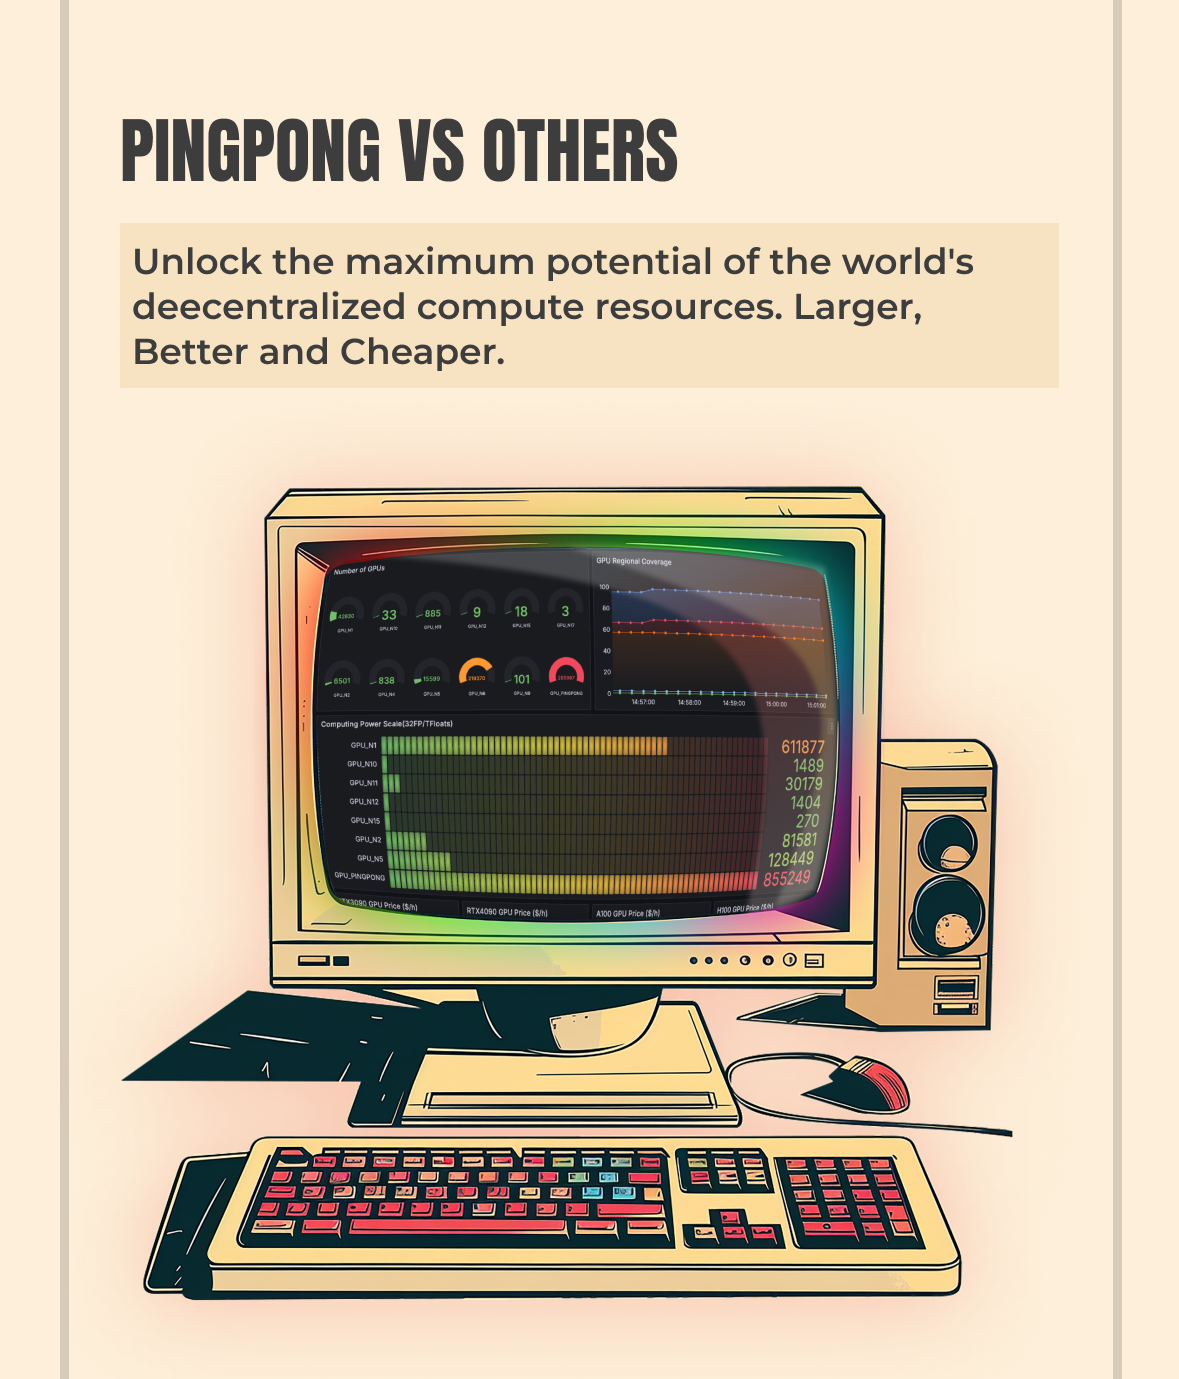
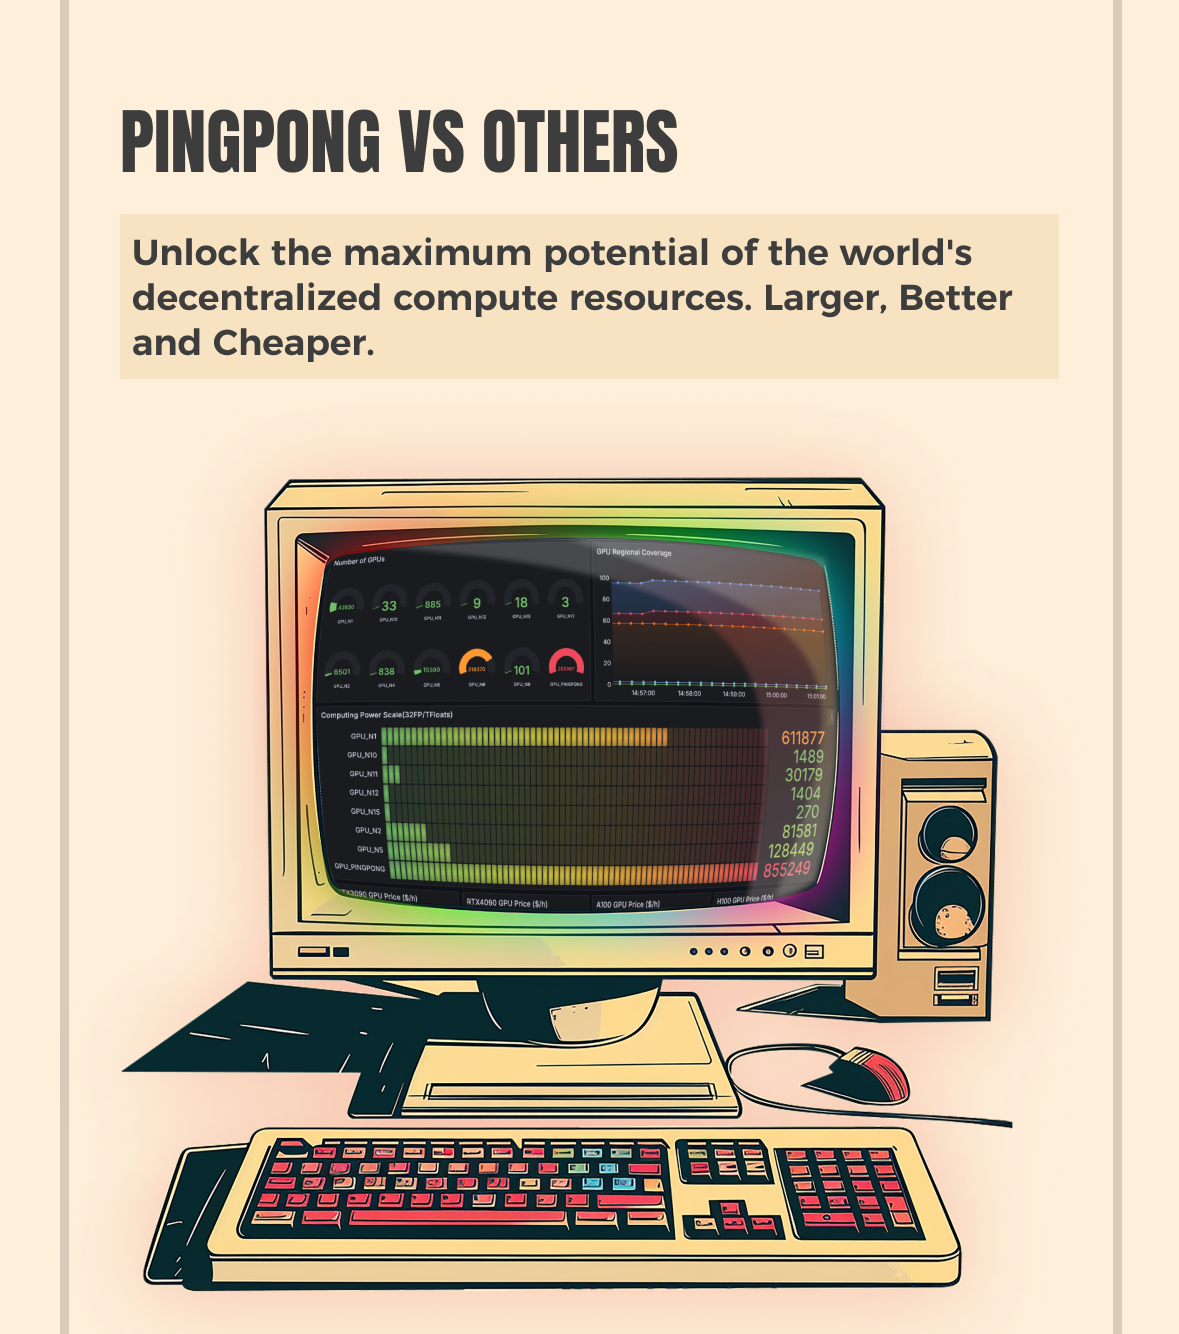
replace image and add action  button

diff --git a/components/mobile/page.tsx b/components/mobile/page.tsx
@@ -2,10 +2,13 @@
 import Image from "next/image";
 import "./page.scss";
 import { WHITEPAPER_LINK } from "@/config/link";
+import {toast} from "sonner";
 
 import { useState } from "react";
 
 export default function Mobile() {
+  const comingSoonToast = () => toast('Coming soon...')
+  const openInBlank = (url: string) => window.open(url, '_blank')
   const [isModalOpen, setModalOpen] = useState(false);
   const toggleMenu = function () {
     const el = document.getElementById("js__mobile-header-box");
@@ -185,13 +188,17 @@ export default function Mobile() {
         alt="content"
         src="/images/index_new/mobile/1_04.png"
       ></Image>
-      <Image
-        width={1179}
-        height={1769}
-        className="mobile__common-img"
-        alt="content"
-        src="/images/index_new/mobile/1_05.png"
-      ></Image>
+      <div className="mobile__common-box">
+        <Image
+          width={1179}
+          height={1769}
+          className="mobile__common-img"
+          alt="content"
+          src="/images/index_new/mobile/1_05.png"
+        ></Image>
+        <div className="mobile__1_05_button" onClick={() => comingSoonToast()}></div>
+        <div className="mobile__1_05_button2" onClick={() => comingSoonToast()}></div>
+      </div>
       <Image
         width={1179}
         height={1826}
@@ -199,13 +206,17 @@ export default function Mobile() {
         alt="content"
         src="/images/index_new/mobile/2_01.png"
       ></Image>
-      <Image
-        width={1179}
-        height={1197}
-        className="mobile__common-img"
-        alt="content"
-        src="/images/index_new/mobile/2_02.png"
-      ></Image>
+      <div className="mobile__common-box">
+
+        <Image
+          width={1179}
+          height={1197}
+          className="mobile__common-img"
+          alt="content"
+          src="/images/index_new/mobile/2_02.png"
+        ></Image>
+        <div className="mobile__2_02_button" onClick={() => comingSoonToast()}></div>
+      </div>
       <Image
         width={1179}
         height={1379}
@@ -213,20 +224,28 @@ export default function Mobile() {
         alt="content"
         src="/images/index_new/mobile/2_03.png"
       ></Image>
-      <Image
-        width={1179}
-        height={1263}
-        className="mobile__common-img"
-        alt="content"
-        src="/images/index_new/mobile/2_04.png"
-      ></Image>
-      <Image
-        width={1179}
-        height={2021}
-        className="mobile__common-img"
-        alt="content"
-        src="/images/index_new/mobile/2_05.png"
-      ></Image>
+      <div className="mobile__common-box">
+
+        <Image
+          width={1179}
+          height={1263}
+          className="mobile__common-img"
+          alt="content"
+          src="/images/index_new/mobile/2_04.png"
+        ></Image>
+        <div className="mobile__2_04_button" onClick={() => comingSoonToast()}></div>
+      </div>
+      <div className="mobile__common-box">
+
+        <Image
+          width={1179}
+          height={2021}
+          className="mobile__common-img"
+          alt="content"
+          src="/images/index_new/mobile/2_05.png"
+        ></Image>
+        <div className="mobile__2_05_button" onClick={() => comingSoonToast()}></div>
+      </div>
       <Image
         width={1179}
         height={1986}

diff --git a/src/app/page.tsx b/src/app/page.tsx
@@ -1,6 +1,9 @@
 import { headers } from "next/headers";
 import Pc from "../../components/pc_new/page";
 import Mobile from "../../components/mobile/page";
+import {Toaster} from "sonner";
+import { MontserratFont} from "../../common/font";
+
 
 const isMobile = (userAgent: string) => {
   // const u = navigator.userAgent;
@@ -12,5 +15,19 @@ export default function Home() {
   const headersList = headers();
   const userAgent = headersList.get("User-Agent");
   const _isMobile = isMobile(userAgent || "");
-  return <>{_isMobile ? <Mobile></Mobile> : <Pc></Pc>}</>;
+  return <>
+  <Toaster position={'top-center'} toastOptions={{
+    style: {
+      background: '#F7CA3A',
+      borderRadius: 0,
+      border: '2px solid #3d3d3d',
+      minWidth: _isMobile ? '50vw' : '160px',
+      fontWeight: "bolder",
+      width: 'auto',
+      left: '50%',
+      transform: 'translateX(-50%)'
+    },
+    className: MontserratFont.className,
+  }} />
+  {_isMobile ? <Mobile></Mobile> : <Pc></Pc>}</>;
 }

diff --git a/components/mobile/page.scss b/components/mobile/page.scss
@@ -38,6 +38,46 @@
   width: 150px;
   height: 40px;
 }
+.mobile__1_05_button {
+  position: absolute;
+  top: 510px;
+  // background-color: #ccc;
+  left: 30px;;
+  width: 150px;
+  height: 30px;
+}
+.mobile__1_05_button2 {
+  position: absolute;
+  top: 510px;
+  // background-color: #ccc;
+  left: 190px;;
+  width: 60px;
+  height: 30px;
+}
+.mobile__2_02_button {
+  position: absolute;
+  top: 480px;
+  // background-color: #ccc;
+  left: 100px;;
+  width: 200px;
+  height: 40px;
+}
+.mobile__2_04_button {
+  position: absolute;
+  top: 330px;
+  // background-color: #ccc;
+  left: 90px;;
+  width: 210px;
+  height: 40px;
+}
+.mobile__2_05_button {
+  position: absolute;
+  top: 570px;
+  // background-color: #ccc;
+  left: 120px;;
+  width: 160px;
+  height: 50px;
+}
 .mobile__header-box--open {
   & > div {
     padding-left: 20px;

diff --git a/src/app/layout.tsx b/src/app/layout.tsx
@@ -2,7 +2,6 @@ import type { Metadata } from "next";
 import { Inter } from "next/font/google";
 import "./globals.css";
 import {LoveYaLikeASister, MontserratFont} from "../../common/font";
-import {Toaster} from "sonner";
 
 const inter = Inter({ subsets: ["latin"] });
 
@@ -24,17 +23,7 @@ export default function RootLayout({
       }}
     >
       <body className={inter.className + " " + LoveYaLikeASister.className}>
-        <Toaster position={'top-center'} toastOptions={{
-          style: {
-            background: '#F7CA3A',
-            borderRadius: 0,
-            border: '2px solid #3d3d3d',
-            minWidth: '160px',
-            fontWeight: "bolder",
-            width: 'auto'
-          },
-          className: MontserratFont.className,
-        }} />
+        
         {children}
       </body>
     </html>
